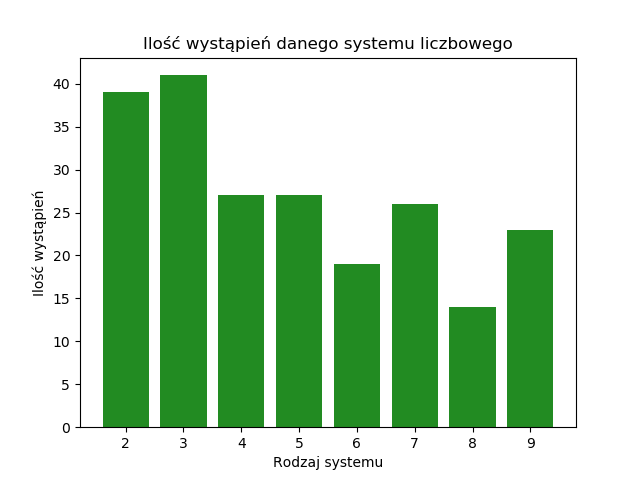
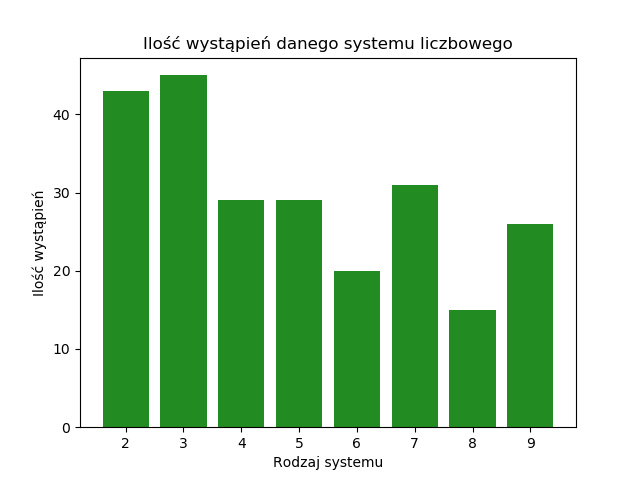
multiple files

diff --git a/strona.html b/strona.html
@@ -170,6 +170,21 @@
                      <td>1010000 1001100 145 2210 230 10010 </td>
                      <td>PLAKAT</td> 
                  </tr>
+                 <tr>
+                     <td>siema</td>
+                     <td>1110011 410 10202 214 166 </td>
+                     <td>siema</td> 
+                 </tr>
+                 <tr>
+                     <td>siema</td>
+                     <td>1110011 410 10202 214 166 </td>
+                     <td>siema</td> 
+                 </tr>
+                 <tr>
+                     <td>pozdrowienia</td>
+                     <td>1110000 1101111 145 1210 310 1233 142 126 10202 215 151 10121 </td>
+                     <td>pozdrowienia</td> 
+                 </tr>
              </table>
              </div>
             <div id="txt">Ponizej zestwaienie czestowliwosci wystepowania danych systemow liczbowych </div> 

diff --git a/server.py b/server.py
@@ -1,69 +1,97 @@
 import matplotlib.pyplot as plt
-
+import glob
 
 systems ={}
 
 
 def fread(nazwa):
-    file = open(nazwa, 'r')
-    list = file.readlines()
-    file.close()
+    path = nazwa
+    files = glob.glob(path)
+    i = 0
+    list = []
+    for name in files:
+        list.append([])
+        with open(name, 'r') as f:
+            list[i] = f.readlines()
+            f.close()
+        i+=1
+    print(list)
     return list
 
 def read(name):
     list = []
+    path = name
+    files = glob.glob(path)
     word = ''
     i = 0
-    file = open(name, 'r')
-    for line in file:
+    j = 0
+    # file = open(name, 'r')
+    for n in files:
         list.append([])
-        for letter in line:
-            if letter == ' ':
-                list[i].append(word)
-                word = ''
-            elif letter=="\n": pass
-            else:
-                word+=letter
-        i += 1
-    file.close()
+        with open(n, 'r') as f:
+            for line in f:
+                list[j].append([])
+                for letter in line:
+                    if letter == ' ':
+                        list[j][i].append(word)
+                        word = ''
+                    elif letter=="\n": pass
+                    else:
+                        word+=letter
+                i += 1
+            f.close()
+        i = 0
+        j += 1
+    # file.close()
     return list
 
 
 def fwrite(name, list):
-    file = open(name, 'w')
-    for i in range(len(list)):
-        for j in range(len(list[i])):
-            for n in range(len(list[i][j])):
-                file.write(str(list[i][j][n]))
-                if n == len(list[i][j]) - 1:
-                    file.write(" ")
-            if j == len(list[i]) - 1:
-                file.write('\n')
-    file.close()
+    for c in range(len(list)):
+        path = name
+        path = path + str(c) + '.txt'
+        file = open(path, 'w')
+        for i in range(len(list[c])):
+            for j in range(len(list[c][i])):
+                for n in range(len(list[c][i][j])):
+                    file.write(str(list[c][i][j][n]))
+                    if n == len(list[c][i][j]) - 1:
+                        file.write(" ")
+                if j == len(list[c][i]) - 1:
+                    file.write('\n')
+        file.close()
+
+
 
 def write(name, list):
-    file = open(name, 'w')
-    for item in list:
-        file.write(item +'\n')
-    file.close()
+    # file = open(name, 'w')
+    for i in range(len(list)):
+        path = name
+        path = path + str(i) + '.txt'
+        file = open(path, 'w')
+        for item in list[i]:
+            file.write(item +'\n')
+        file.close()
 
 def encrypt(list_encrypt):
     encrypted = []
-    for i in range(len(list_encrypt)):
+    for c in range(len(list_encrypt)):
         encrypted.append([])
-        for j in range(len(list_encrypt[i])):
-            if list_encrypt[i][j] != '\n':
-                if j != 0:
-                    sys = (ord(list_encrypt[i][j - 1]) % 8) + 2
-                    if sys not in systems: systems.update({sys: 1})
-                    else: systems[sys]+=1
-                    encrypted[i].append(conv_to_sys(ord(list_encrypt[i][j]), sys))
+        for i in range(len(list_encrypt[c])):
+            encrypted[c].append([])
+            for j in range(len(list_encrypt[c][i])):
+                if list_encrypt[c][i][j] != '\n':
+                    if j != 0:
+                        sys = (ord(list_encrypt[c][i][j - 1]) % 8) + 2
+                        if sys not in systems: systems.update({sys: 1})
+                        else: systems[sys]+=1
+                        encrypted[c][i].append(conv_to_sys(ord(list_encrypt[c][i][j]), sys))
 
-                else:
-                    if 2 not in systems: systems.update({2: 1})
-                    else: systems[2] += 1
-                    encrypted[i].append(conv_to_sys(ord(list_encrypt[i][j]), 2))
-    fwrite("output/szyfr.txt", encrypted)
+                    else:
+                        if 2 not in systems: systems.update({2: 1})
+                        else: systems[2] += 1
+                        encrypted[c][i].append(conv_to_sys(ord(list_encrypt[c][i][j]), 2))
+    fwrite("output/szyfr", encrypted)
 
 
 def conv_to_sys(number, system):
@@ -91,15 +119,17 @@ def decrypt(list):
     sys = 0
     word=''
     letter=0
-    for i in range(len(list)):
-        for j in range(len(list[i])):
-            if j==0: sys=2
-            letter = conv_from_sys(list[i][j], sys)
-            word+=chr(letter)
-            sys = (letter%8)+2
-        decrypted.append(word)
-        word =''
-    write("output/odszyfrowane.txt",decrypted)
+    for c in range(len(list)):
+        decrypted.append([])
+        for i in range(len(list[c])):
+            for j in range(len(list[c][i])):
+                if j==0: sys=2
+                letter = conv_from_sys(list[c][i][j], sys)
+                word+=chr(letter)
+                sys = (letter%8)+2
+            decrypted[c].append(word)
+            word =''
+    write("output/odszyfrowane",decrypted)
 
 def plot():
     fig, ax = plt.subplots()
@@ -111,8 +141,8 @@ def plot():
 
 
 
-encrypt(fread("input/tekst.txt"))
-decrypt(read("output/szyfr.txt"))
+encrypt(fread("input/*.txt"))
+decrypt(read("output/*.txt"))
 plot()
 
 

diff --git a/dokumnetacja/dokumentacja.tex b/dokumnetacja/dokumentacja.tex
@@ -6,6 +6,8 @@
 \usepackage{url}
 \usepackage{graphicx}
 \usepackage{listings}
+\usepackage{amsmath}
+\usepackage{indentfirst}
 \usepackage[]{algorithm2e}
 \addtolength{\hoffset}{-1.5cm}
 \addtolength{\marginparwidth}{-1.5cm}
@@ -26,8 +28,8 @@
 	\section*{Część I}
 	\subsection*{Opis programu}
 	 Projekt spełnia warunki zadania Szyfrowanie Wiadomości z konkursu Algorytmion2015, dodatkowo obsługiwany jest z poziomu powłoki systemu Windows(skrypt batchowski) oraz wyświetla wyniki wykonanych operacji na stronie internetowej. 
-	 \newline
-	\newline Poniżej polecenie z konkursu Algorytmion:
+	 \\
+	\\ Poniżej polecenie z konkursu Algorytmion:
 	
 	Adam i Janek ustalili między sobą, że każdą wiadomość tekstową, będą szyfrować przy pomocy następującego sposobu:
 	\begin{itemize}
@@ -36,18 +38,31 @@
 	\item Kolejne liczby, wynikające z kodu ASCII, są zamieniane na system liczbowy, który jest równy powiększonej o dwa reszcie z dzielenia przez osiem poprzedniej liczby.
 	\item  Ilość cyfr zamienionej liczby, dla każdego systemu liczbowego, wynika z ilości cyfr zamiany liczby maksymalnej, czyli liczby 127 (dla systemu binarnego jest to siedem cyfr). 
 	\end{itemize}
-	Twoim zadaniem jest napisanie programu, który szyfruje i deszyfruje wiadomości. \newline
-Szyfrowanie tekstu z pliku tekst.txt do pliku szyfr.txt \newline Deszyfrowanie tekstu z pliku szyfr.txt do pliku odszyfrowane.txt 
+	Twoim zadaniem jest napisanie programu, który szyfruje i deszyfruje wiadomości. \\
+Szyfrowanie tekstu z pliku tekst.txt do pliku szyfr.txt \\ Deszyfrowanie tekstu z pliku szyfr.txt do pliku odszyfrowane.txt 
 
 	\subsection*{Instrukcja obsługi}
 	Aby uruchomić program należy otworzyć plik server.bat znajdujący się w głównym folderze projektu, następnie wybrać opcje Uruchom wpisując 1 na klawiaturze oraz wcisnąć klawisz enter.
+		
+			\includegraphics[scale=0.7]{instrukcja}
+
+			\includegraphics[scale=0.8]{instrukcja2}
+	
 	
 \newpage
 	\section*{Część II}
 	\subsection*{Część techniczna}
 	Schemat działania i szczegółowy opis komponentów, mechanizmów (bez kodu).
 	\subsection*{Opis działania} 
-	Główny algorytm programy szyfruje podane słowa za pomocą zamiany kodu ASCI liter tego słowa z systemu dziesiętnego na odpowiednio wyliczony system liczbowy. Pierwsza litera danego słowa jest zamieniana 
+Główny algorytm programy szyfruje podane słowa za pomocą zamiany kodu ASCII liter danego słowa z systemu dziesiętnego na odpowiednio wyliczony system liczbowy. Kod pierwszej litery jest zamieniany zawsze na system dwójkowy, system na który zamieniana jest kolejna litera obliczany jest według wzoru: $$sys=(l-1\mod{8})+2$$ 
+
+
+sys - system liczbowy
+
+
+l-1 - kod ASCII poprzedniej litery \\
+
+Działanie to jest wykonywane w pętli do końca słowa. Sam algorytm zamiany systemów liczbowych opiszę w następnym rozdziale. Odszyfrowanie słów jest wykonywane przy użyciu tego samego działania, różnica jest taka że najpierw musimy musimy dokonać konwersji a później obliczyć system w szyfrowaniu natomiast najpierw obliczamy system a później dokonujemy konwersji. 
 	\subsection*{Implementacja}
 	Tutaj opisujemy wybrane działanie KODU programu -- z uwzględnieniem PSEUDOKODU (utworzonego przy użyciu \LaTeX, a nie obrazka).
 	\begin{verbatim}

diff --git a/strona.py b/strona.py
@@ -1,7 +1,40 @@
+import glob
+
 html = open("strona.html", 'w')
-words = open("input/tekst.txt",'r')
-encrypted = open("output/szyfr.txt", 'r')
-decrypted = open("output/odszyfrowane.txt", 'r')
+
+path_1 = "input/*.txt"
+path_2 = "output/szyfr*.txt"
+path_3 = "output/odszyfrowane*.txt"
+files_1 = glob.glob(path_1)
+files_2 = glob.glob(path_2)
+files_3 = glob.glob(path_3)
+
+words = []
+encrypted = []
+decrypted = []
+
+for name in files_1:
+    with open(name) as f:
+        word = f.readlines()
+        words += word
+        f.close()
+
+
+for name in files_2:
+    with open(name) as f:
+        word = f.readlines()
+        encrypted += word
+        f.close()
+
+for name in files_3:
+    with open(name) as f:
+        word = f.readlines()
+        decrypted += word
+        f.close()
+
+# words = open("input/tekst.txt",'r')
+# encrypted = open("output/szyfr.txt", 'r')
+# decrypted = open("output/odszyfrowane.txt", 'r')
 
 html.write('<!DOCTYPE HTML>\n'
            '<html lang="pl">\n<head>'
@@ -24,14 +57,20 @@ html.write('<!DOCTYPE HTML>\n'
            '                     <th>szyfr.txt</th>\n'
            '                     <th>odszyfrowane.txt</th>\n'
            '                 </tr>\n')
-while  (line_1 := words.readline()) and (line_2 := encrypted.readline()) and (line_3 := decrypted.readline()):
+i = 0
+j = 0
+n = 0
+while (i != len(words)) and (j != len(encrypted)) and (n != len(decrypted)):
             html.write('                 <tr>\n                     <td>')
-            html.write(line_1.replace('\n',''))
+            html.write(words[i].replace('\n',''))
             html.write('</td>\n                     <td>')
-            html.write(line_2.replace('\n',''))
+            html.write(encrypted[j].replace('\n',''))
             html.write('</td>\n                     <td>')
-            html.write(line_3.replace('\n', ''))
+            html.write(decrypted[n].replace('\n', ''))
             html.write('</td> \n                 </tr>\n')
+            i+=1
+            j+=1
+            n+=1
 html.write('             </table>\n'
            '             </div>\n'
            '            <div id="txt">Ponizej zestwaienie czestowliwosci wystepowania danych systemow liczbowych </div> \n'
@@ -44,6 +83,3 @@ html.write('             </table>\n'
            '</body> \n'
            )
 html.close()
-words.close()
-encrypted.close()
-decrypted.close()
